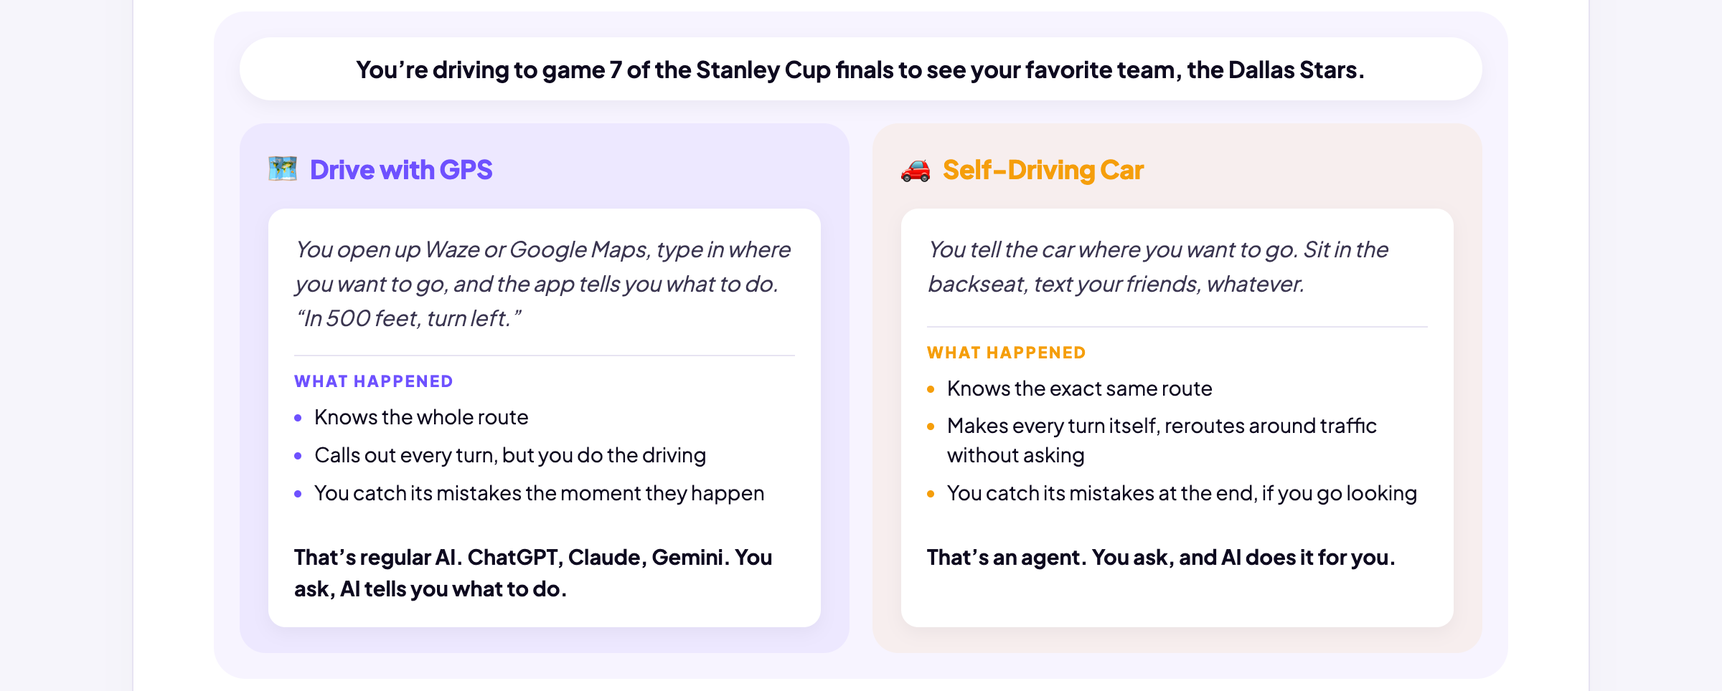
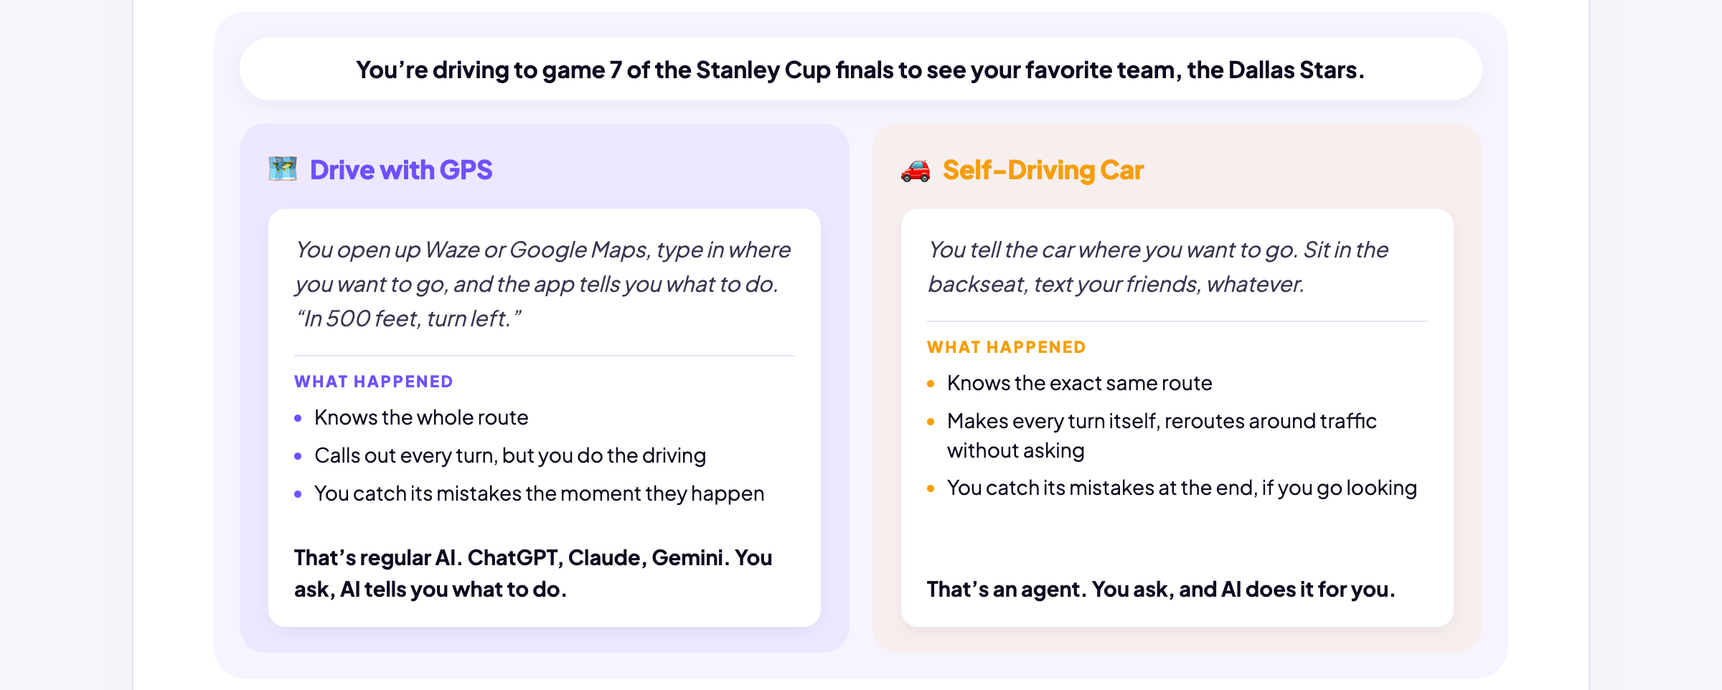
Iterate Work Changes into a tighter, past-tense assignment story
- Opening trimmed: AI-companies aside and sit-inside line removed
- Assignment box: sentence-per-line manager quote, past-tense retelling
  (WHAT YOU DID / WHAT AI DID / WHAT YOU DID), identical mirrored grind
  bullets on both sides, THE RESULT verdicts with aligned hairlines
- ExperienceCompare grows grouped bullet lists, verdictLabel with its
  own rule and level bottom zone; RoA keeps the legacy look untouched
- Automate/Augment recast in the Big Downside term-card format
  (LabeledCardStack flat+dense, "How it impacted your assignment")
- WHAT CHANGES FOR YOU: more kinds of work / more productive (Harvard
  BCG consultants stat) / more meaningful work
- Entry-level section rewritten: THE PART THAT MATTERS, learn-learn-
  learn closer; close board recopy "AI is changing the work you'll do."
- Briefing + component gallery synced (ExperienceCompare, stale
  LabeledCardStack citation fixed, flat/dense documented)

diff --git a/index.html b/index.html
@@ -452,7 +452,7 @@ const CLOSE_BOARDS = {
   bigdownside: { pill: "AI does exactly what it’s told.", sticky: "The black box moves faster than the rules." },
   bigupside: { pill: "The big upside is happening today.", sticky: "AI is saving lives." },
   agents: { pill: "Agents do the work. The name on it is yours.", sticky: "You ask, it acts. You make it better." },
-  workchanges: { pill: "The first pass becomes the starting line.", sticky: "Your job is what happens next." },
+  workchanges: { pill: "AI is changing the work you’ll do.", sticky: "Now it’s on you to LEARN." },
   computecost: { pill: "Every answer costs something real.", sticky: "Cheap to type isn’t free to run." },
   unexpected: { pill: "The biggest results are the ones nobody predicted.", sticky: "That’s the best reason to stay curious." },
   // Build Your Skills
@@ -1327,17 +1327,23 @@ function ExperienceCompare(box) {
             E("span", { style: { fontSize: 20, flexShrink: 0 } }, side.icon),
             E("span", { style: { fontFamily: "var(--sans)", fontSize: 18, fontWeight: 800, color: side.color, letterSpacing: "-0.01em" } }, side.tagline)),
           E("div", { style: { background: "#fff", borderRadius: 12, padding: "16px 18px", boxShadow: "var(--shadowSoft)", flex: 1, display: "flex", flexDirection: "column" } },
-            E("div", { style: { fontSize: BOX_TEXT, color: "var(--inkSoft)", lineHeight: 1.6, fontStyle: "italic", flex: "1 1 auto" } }, side.body),
-            E("div", null,
+            E("div", { style: { fontSize: BOX_TEXT, color: "var(--inkSoft)", lineHeight: 1.6, fontStyle: "italic" } }, side.body),
+            E("div", { style: { flex: 1, display: "flex", flexDirection: "column" } },
               E("div", { style: { borderTop: "1px solid var(--rule)", margin: "14px 0 10px" } }),
-              E("div", { style: { fontSize: 11, fontWeight: 800, letterSpacing: "0.12em", textTransform: "uppercase", color: side.color, marginBottom: 8 } }, "What happened"),
-              E("div", { style: { display: "flex", flexDirection: "column", gap: 6 } },
-                side.happened.map(function(h, hi) {
-                  return E("div", { key: hi, style: { display: "flex", gap: 9, alignItems: "baseline", fontSize: 14, lineHeight: 1.45, color: "var(--ink)" } },
-                    E("span", { style: { width: 5, height: 5, borderRadius: "50%", background: side.color, flexShrink: 0, transform: "translateY(-2px)" } }),
-                    E("span", null, h));
-                })),
-              E("div", { style: { fontSize: 14.5, fontWeight: 700, color: "var(--ink)", lineHeight: 1.5, marginTop: 24, minHeight: 44 } }, side.verdict))));
+              (side.groups || [{ label: "What happened", items: side.happened }]).map(function(group, gi) {
+                return E("div", { key: gi, style: { marginTop: gi === 0 ? 0 : 14 } },
+                  E("div", { style: { fontSize: 11, fontWeight: 800, letterSpacing: "0.12em", textTransform: "uppercase", color: side.color, marginBottom: 8 } }, group.label),
+                  E("div", { style: { display: "flex", flexDirection: "column", gap: 6 } },
+                    group.items.map(function(h, hi) {
+                      return E("div", { key: hi, style: { display: "flex", gap: 9, alignItems: "baseline", fontSize: 14, lineHeight: 1.45, color: "var(--ink)" } },
+                        E("span", { style: { width: 5, height: 5, borderRadius: "50%", background: side.color, flexShrink: 0, transform: "translateY(-2px)" } }),
+                        E("span", null, h));
+                    })));
+              }),
+              E("div", { style: { marginTop: "auto", paddingTop: side.verdictLabel ? 0 : 24 } },
+                side.verdictLabel ? E("div", { style: { borderTop: "1px solid var(--rule)", margin: "14px 0 10px" } }) : null,
+                side.verdictLabel ? E("div", { style: { fontSize: 11, fontWeight: 800, letterSpacing: "0.12em", textTransform: "uppercase", color: side.color, marginBottom: 8 } }, side.verdictLabel) : null,
+                E("div", { style: { fontSize: 14.5, fontWeight: 700, color: "var(--ink)", lineHeight: 1.5, minHeight: side.verdictLabel ? 66 : undefined } }, side.verdict)))));
       })));
 }
 
@@ -12423,9 +12429,7 @@ function WorkChangesSection(props) {
     E(BodyP, null,
       "Before you know it, you’ll be finished with school and starting your career. How is AI changing work? Glad you asked."),
     E(BodyP, null,
-      "Most of you won’t have jobs at the AI companies. But if you do, congratulations! Put in a good word for this course."),
-    E(BodyP, null,
-      "The superficial things won’t change, like job titles. You’ll have thousands of choices like entrepreneur, teacher, lawyer, or designer. What will change, and is already changing today, is what your day will look like. AI will sit inside almost any profession you choose."),
+      "The superficial things won’t change, like job titles. You have thousands of choices like entrepreneur, teacher, lawyer, or designer. What will change, and is already changing today, is what your day will look like."),
 
     E(SectionKicker, null, "YOU ALREADY KNOW THE PIECES"),
     E(BodyP, null,
@@ -12462,90 +12466,70 @@ function WorkChangesSection(props) {
     ),
     E(BodyP, null,
       "Second: the importance of learning. If everyone gets similar answers from AI, what sets you apart? ", E("strong", null, "It’s what you already know"), "."),
-    E(BodyP, null, "Now put those two lessons inside a workplace."),
 
     E(SectionKicker, null, "YOUR FIRST ASSIGNMENT"),
     E(BodyP, null,
-      "You could receive the same assignment before AI and with AI. What changes is where the real work begins."),
+      "Here’s the same job before AI and with AI. Spoiler alert: you’ll have more time for the interesting stuff."),
     ExperienceCompare({
-      headline: "“We’re getting bad customer feedback on our new product. Read the last 500 reviews and tell us what’s happening and how we should fix it.”",
+      headline: E("span", null, "“We’re getting bad customer feedback on our new product.", E("br"), "Read the last 500 reviews and tell us what’s happening and how we should fix it.”"),
       sides: [{
         icon: "🗂",
         tagline: "Before AI",
         color: "#6e51ff",
-        body: "The grind is all on you. The week disappears into what feels like busy work, and it’s Friday before you finally start analyzing what you found.",
-        happened: ["You read and organize every review", "You find the recurring themes", "You build the spreadsheet", "You draft and present the findings", "The presentation is the finish line"],
-        verdict: "Most of the time goes into making the first pass."
+        body: "The grind was all on you. The week disappeared into what felt like busy work, and it was Friday before you finally started analyzing the data.",
+        groups: [
+          { label: "What you did", items: ["Read and organized 500 reviews", "Found the recurring themes", "Built the spreadsheet", "Analyzed the data", "Prepared the Google Slides deck", "Presented the findings to the boss"] }
+        ],
+        verdictLabel: "The result",
+        verdict: "The boss said you did good work, added a page of comments, and you spent next week re-analyzing."
       }, {
         icon: "⚡",
         tagline: "With AI",
         color: "#f59e0b",
-        body: "AI sits beside you and does the busy work in minutes. Your week goes to what the boss actually asked: what’s happening, and how do we fix it?",
-        happened: ["AI reads all 500 reviews and proposes the themes", "You check the source reviews and catch what AI missed", "You investigate why and recommend the fix", "The summary is the starting line"],
-        verdict: "AI makes the first pass. The employee takes it further."
+        body: "AI sat beside you and did the busy work in minutes. Your week went to what the boss asked: what’s happening, and how do we fix it?",
+        groups: [
+          { label: "What AI did", items: ["Read and organized 500 reviews", "Found the recurring themes", "Built the spreadsheet", "Analyzed the data", "Prepared the Google Slides deck"] },
+          { label: "What you did", items: ["Worked with AI throughout to improve its work", "Investigated why and recommended the fix", "Presented the findings to the boss"] }
+        ],
+        verdictLabel: "The result",
+        verdict: "The boss loved it. The week you spent on the real questions paid off."
       }]
     }),
     E(BodyP, null,
-      "The employee did not simply finish the old assignment faster. The assignment became bigger. Making the summary used to be most of the job. Now it is where the job begins."),
+      "Do you see the point? AI doesn’t just let you do things faster. ", E("strong", null, "It lets you focus on what’s really important"), "."),
 
-    E(SectionKicker, null, "WHY THE ASSIGNMENT CHANGED"),
+    E(SectionKicker, null, "THE CONCEPTS"),
     E(BodyP, null,
-      "Look closer at that assignment. Two different things happened to it."),
-    E(ComparisonCards, {
-      items: [
-        {
-          label: "Automate",
-          title: "AI takes over a step",
-          color: "#d97706",
-          sections: [{
-            label: "In this assignment",
-            body: "AI sorts the reviews, groups similar ideas, and creates the first summary with little human attention."
-          }]
-        },
-        {
-          label: "Augment",
-          title: "AI helps a person do more",
-          color: "#7c3aed",
-          sections: [{
-            label: "In this assignment",
-            body: "The employee explores more explanations, compares more options, and improves the recommendation faster."
-          }]
-        }
-      ]
-    }),
+      "There are two terms you’ll hear that describe how AI is changing the nature of work."),
+    E(ShowcaseBox, { marginBottom: 24 },
+      E(LabeledCardStack, { grid: true, columns: 2, flat: true, dense: true, meansLabel: "How it impacted your assignment", items: [
+        { headline: "Automate", body: "AI takes over a step.", means: "AI sorts the reviews, groups similar ideas, and creates the first summary with little human attention." },
+        { headline: "Augment", body: "AI helps a person do more.", means: "You explore more explanations, compare more options, and improve the recommendation faster." }
+      ] })),
     E(BodyP, null,
-      "Most jobs will contain both. Some steps disappear into the tool. Other steps become faster, broader, or more ambitious. Either way, the outcome still needs an owner."),
+      "Whatever career you choose, AI will do some tasks for you and help you do others. But here’s the important point: the work still has your name on it. You own the outcome."),
 
     E(ShowcaseBox, {
       kicker: "WHAT CHANGES FOR YOU",
-      intro: "Put automation and augmentation together, and three changes show up across many careers.",
+      intro: "Put automation and augmentation together, and three changes show up across almost every career.",
       marginBottom: 28
     },
       E(NumberedColumns, {
         items: [
-          { label: "The first pass gets compressed", body: "Drafting, organizing, summarizing, and generating options take less time." },
-          { label: "The job gets wider", body: "One person can cover more of the workflow, with fewer handoffs to other people." },
-          { label: "The pace gets faster", body: "When another version is cheap, employers can ask for more versions, more testing, and faster improvement." }
+          { label: "You can do more kinds of work", body: "You cover more of the workflow, with fewer handoffs to other people. A marketer who has never coded can now build the campaign’s landing page." },
+          { label: "You can be more productive", body: "In a Harvard study, consultants using AI finished tasks 25% faster with 40% better quality. The least experienced gained the most." },
+          { label: "You can do more meaningful work", body: "AI absorbs the busy work, so more of your week goes to the real questions: investigating, deciding, and recommending." }
         ]
       })
     ),
+    E(SectionKicker, null, "THE PART THAT MATTERS"),
     E(BodyP, null,
-      "If research and a first draft once took two days, an employer probably will not turn the saved time into two days off. The worker may be asked to investigate more possibilities, handle an adjacent part of the project, or finish the whole assignment sooner."),
-
-    E(SectionKicker, null, "THE FIRST RUNG GETS SHORTER"),
+      "This is changing entry-level jobs. Much of the work that AI does was formerly reserved for the new college graduates just starting out. It was the way they learned the profession: basic research, starter code, and simple analysis."),
     E(BodyP, null,
-      "Here is the part that matters especially for you. The work AI handles first is often the work beginners used to do to learn a profession: basic research, first drafts, starter code, simple analysis, and routine documentation."),
-    E(ShowcaseBox, {
-      headline: "AI can make you productive before it makes you knowledgeable.",
-      marginBottom: 28
-    },
-      E(BodyP, { marginBottom: 14 },
-        "That creates a strange problem. A new employee may be expected to check sophisticated work after getting fewer chances to practice producing it from scratch."),
-      E(BodyP, { marginBottom: 0 },
-        "This is why Does School Matter? mattered. You still need the knowledge and the reps. The difference is that you may have to build them more deliberately.")
-    ),
+      E("strong", null, "AI can make you productive before it makes you knowledgeable."),
+      " That creates a strange problem. You might be asked to check sophisticated work before you’ve had the chance to learn it."),
     E(BodyP, null,
-      "Your first job will not just ask whether you can use AI. It will ask whether you can take everything AI produces and turn it into a result."),
+      "You already know what you must do. Learn. Learn. And learn more. And you’re in the best place in the world to do it: school."),
     closeBoard("workchanges"),
 
     E(InteractiveBox, {

diff --git a/briefing.md b/briefing.md
@@ -73,11 +73,11 @@ Keep the **Design system**, **Lesson structure**, and **Working agreements** sec
 - **CoreLoopBox**: the shared "four ideas" anchor (Learn once: 📚 Training → 🧩 Patterns | Answer · every word: 🎲 Probability → ✍ Prediction), purple/amber two-panel layout. It is rendered in How an LLM Works (`aihistory`), AI Is Different (`aivscode`), and How We Got Here (`howwegothere`). How We Got Here also tags each milestone with the matching idea-chip.
 - **TrainingLoopBox**: the shared "reads → guesses → corrects" training-loop box (1·READS books/web/chats/code/images/audio/video, 2·GUESSES "peanut butter and __" → cloud ✗, 3·CORRECTS → jelly ✓). Props: `bare` skips the lavender panel wrap. It is rendered in How an LLM Works (`aihistory`) and Training (`training`). The host lessons carry the "billions of times" takeaway in their own copy.
 - **CompareRows**: the aligned point-for-point member of the comparison family, for "X vs Y" content where row N on the left is answered by row N on the right. Same var(--primaryFaint) band geometry as CompareBox (22px radius, 32px 40px padding, optional 20px/800 `headline`), holding a split-tint inner panel (24px radius, hard 50/50 linear-gradient between the two column bgs) with two column headers (CompareHead-style type; left column left-aligned, right column right-aligned) above one white rows card (16px radius, var(--shadowElevated)). Each row: left item right-aligned in the left column color, a 40×12 double-headed arrow SVG (#8b7fc0), right item left-aligned in the right column color; rows split by var(--rule) hairlines. Pairing is structural: row j renders columns[0].items[j] against columns[1].items[j]. Props: headline (optional), columns (array of exactly two: { label, sub, emoji, color, bg, items }), marginBottom (default 32). Reference implementation: "When you think vs. what AI does" in DoesAIThinkSection. Use CompareBox/ComparePanel when the two sides are free-form bodies; use CompareRows when the comparison is a list of aligned one-line contrasts.
-- **ExperienceCompare**: the scenario-story member of the comparison family: one setup, two experiences of living it, each argued to a verdict. A var(--primaryFaint) band (22px radius, 18px padding, marginBottom 24) led by a white pill headline (999 radius, var(--shadowSoft), 12px 22px padding, 16px/700 ink, centered) stating the scenario, above an auto-fit grid (`minmax(min(100%, 340px), 1fr)`, 16px gap) of two tinted side panels (side.color + "12" fill, 18px radius, 18px 20px padding, column flex). Each side: an emoji icon plus an 18px/800 tagline in the side color, then a white card (12px radius, var(--shadowSoft), flex 1) holding an italic BOX_TEXT/1.6 inkSoft narrative, a var(--rule) hairline, an uppercase 11px/800 "What happened" label in the side color, dot-bulleted 14px one-liners (5px dots in the side color), and a 14.5px/700 ink verdict line (minHeight 44 keeps the two verdicts level). Called as a plain function with a config object (`ExperienceCompare({...})`), not through createElement. Props: headline (string or element), sides (array of exactly two: { icon, tagline, color, body, happened, verdict }). Promoted 2026-08-14 from a WhenAIActsSection-local helper (formerly shadowing the CompareBox name). Reference implementations: the GPS vs. Self-Driving Car and ChatGPT vs. agent boxes in WhenAIActsSection; the Before AI vs. With AI assignment box in WorkChangesSection. Use CompareBox/ComparePanel when the two sides are free-form bodies; use ExperienceCompare when both sides narrate the same scenario as a story with events and a verdict.
+- **ExperienceCompare**: the scenario-story member of the comparison family: one setup, two experiences of living it, each argued to a verdict. A var(--primaryFaint) band (22px radius, 18px padding, marginBottom 24) led by a white pill headline (999 radius, var(--shadowSoft), 12px 22px padding, 16px/700 ink, centered) stating the scenario, above an auto-fit grid (`minmax(min(100%, 340px), 1fr)`, 16px gap) of two tinted side panels (side.color + "12" fill, 18px radius, 18px 20px padding, column flex). Each side: an emoji icon plus an 18px/800 tagline in the side color, then a white card (12px radius, var(--shadowSoft), flex 1) holding an italic BOX_TEXT/1.6 inkSoft narrative, a var(--rule) hairline, then one or more labeled bullet groups — each an uppercase 11px/800 label in the side color over dot-bulleted 14px one-liners (5px dots in the side color), with 14px between groups — and a 14.5px/700 ink verdict pinned to the card bottom so the two verdicts stay level. An unlabeled verdict keeps a 24px minimum gap above it (the Rise of Agents boxes); a verdictLabel (e.g. "The result" in Work Changes) instead brings its own hairline (same 14px/10px margins as the narrative rule) and uppercase label above a 66px min-height text zone, so the result rules and labels align across sides regardless of how the two verdicts wrap. The hairline sits a fixed 14px below the narrative (the narrative does not flex-grow), so the rules align whenever the two narratives run the same line count (refined 2026-08-14). Called as a plain function with a config object (`ExperienceCompare({...})`), not through createElement. Props: headline (string or element), sides (array of exactly two: { icon, tagline, color, body, groups (array of { label, items }), verdictLabel (optional), verdict }); a side may pass the legacy `happened` list instead of groups, which renders as one group labeled "What happened" (the Rise of Agents boxes). Promoted 2026-08-14 from a WhenAIActsSection-local helper (formerly shadowing the CompareBox name). Reference implementations: the GPS vs. Self-Driving Car and ChatGPT vs. agent boxes in WhenAIActsSection; the Before AI vs. With AI assignment box in WorkChangesSection. Use CompareBox/ComparePanel when the two sides are free-form bodies; use ExperienceCompare when both sides narrate the same scenario as a story with events and a verdict.
 - **PullQuote**: the sourced-quotation card, for verbatim quotes from real documents or people. A var(--primaryFaint) band at 20px radius (no border or shadow), led by a 60px var(--primary) left curly quote mark; the quote sets in var(--serif) at 30px/1.4 var(--ink) (a sanctioned editorial display moment, no surrounding quote marks). Below it an attribution row: a short 26x2px var(--primary) rule plus an uppercase, 0.12em-tracked 13px/800 var(--primary) `cite` label, then a "· "-prefixed 14px/600 var(--inkMuted) `source`. Props: quote, cite (optional, the uppercase short label), source (optional, the muted publisher/date); legacy `attribution` still renders in the source slot if passed; marginBottom (default var(--blockGap)). Verbatim quotes keep their source punctuation, including em-dashes (write them as the backslash-u2014 escape so design-check's raw-byte count is unaffected); our own copy still avoids em-dashes. Reference implementation: the White House AI Action Plan quote in WhyDeeperSection.
 - **NumberedRows**: the numbered-list display box, for showing an ordered list of practices, steps, or tips. A var(--primaryFaint) band (20px radius, 24px padding, optional 20px/800 `headline`) holding one white card (16px radius, var(--shadowElevated), 8px 28px padding) of rows split by var(--rule) hairlines. Each row: a 26px filled circle number (var(--primary) fill, white 13px/800 numeral), then a title line (optional emoji `icon` + BOX_CARD_TITLE/800 ink title), a body (BOX_TEXT + 1, inkSoft, 1.6), an optional `prompt` rendered as a quoted var(--mono) callout on a var(--primaryFaint) tile, and an optional `after` (body-styled line below the prompt tile; accepts a React node, e.g. a bold "What you'll get:" lead — used by the Flattery Trap strategies). Props: items (array of { icon?, title, body?, prompt?, after? }), headline (optional), intro (optional ShowcaseBox-style inkSoft 15px/1.6 subtitle below the headline, inside the band), marginBottom (default var(--blockGap)). body is optional: title-only rows render as a numbered checklist of bold one-liners (the "before you share" questions in PrivacySection). Reference implementations: "Best practices" in StudyingSection; "How to Fight It" in FlatteryTrapSection; "The five moves" in DocumentChatSection; "Five moves you can practice" in CreativeThinkingSection; the three "And it's early" advantages (headline + intro) in WhyDeeperSection. Use it whenever a lesson needs a list of named things with explanations; numbering is automatic.
 - **NumberedColumns**: the numbered-card grid, for an ordered sequence shown side by side. An auto-fit grid (`repeat(auto-fit, minmax(125px, 1fr))`, 12px gap) of white cards (var(--card), 14px radius, 16px padding, var(--shadowElevated), column flex with 10px gap), each carrying a filled number chip (var(--primary) bg, white 13px/800 numeral, 8px radius, 28px min-width × 24px tall, self-start), a label (BOX_CARD_TITLE, 800, var(--ink), 1.25), and a body (BOX_TEXT, inkSoft, 1.55). `cap3` switches to the responsive flex layout used for five-item 3+2 boards. No band of its own. Current references: "Here’s your path." in WelcomeSection, "Two skills. Both grow with what you know." in WhyBotherSection, and the three "What changes for you" cards in WorkChangesSection. Use NumberedRows when items need full-width explanations or prompt callouts; use NumberedColumns when the point is the sequence itself and each item is a few words.
-- **LabeledCardStack**: the accent-striped card stack, for a vertical run of labeled terms or modes. A column flex (12px gap) of white cards (var(--card), 1px var(--rule) border plus a 4px accent borderLeft, 10px radius, 14px 18px padding), each carrying an accent-colored 11px/700 uppercase eyebrow, an optional 16px/700 ink headline, and a BOX_TEXT inkSoft body. An optional `means` field appends a var(--rule) top rule, a "WHAT IT MEANS" label (same eyebrow type), and a second body line, for the real-world implication of the card above it (mirrors Where AI Works Best's divider + Examples treatment; added 2026-08-11). A `grid: true` prop swaps the stack for a 2-col auto-fit grid (minmax 300px, 14px column gap, cards carry marginBottom 14) with roomier chrome (16px radius, 20px 22px padding, --shadowSoft, 19px headline); grid cards are subgrids spanning 7 shared row tracks (pill, headline, eyebrow, body, rule, means label, means text) so the rule and "What it means" rows align across each row of cards regardless of body length (graceful fallback to per-card flow where subgrid is unsupported); in grid mode the eyebrow renders BELOW the headline as an accent-colored BOX_TEXT-size uppercase subtitle (the term's plain-language idea), and the headline runs 19px; a per-item `pill` renders an outlined status chip above the eyebrow (accent text/border on var(--primaryFaint), 999 radius) and mutes the eyebrow + means labels to var(--inkMuted) so the pill and stripe carry the accent. A `columns: N` prop forces exactly N equal columns (`repeat(N, minmax(0,1fr))`) instead of the default auto-fit; cards with no `means` skip the subgrid and equalize height via grid stretch, so plain headline+body cards work (Big Downside's RSI/AGI/ASI stress-test box uses `grid, columns: 3` with headline+body only, no pill/eyebrow/means). Props: items (array of { pill?, eyebrow?, headline?, body?, means?, accent?, stripe? }; eyebrow optional in grid mode), grid (optional), columns (optional, grid only), accent (per-item fallback, default var(--primary)). stripe (optional per item) overrides the borderLeft color only, leaving pill/eyebrow on accent — the 4 Terms grid fades its stripes #6e51ff → #8a70ff → #a690ff → #c2b0ff so the color lightens as the terms get more hypothetical. Reference implementations: the 4 Terms grid in PaceOfChangeSection (grid + pills + means, uniform primary accent); the "Three modes to recognize" and "Four roles in every deployment" stacks in WhenAIJudgesSection (stack form, per-card accents).
+- **LabeledCardStack**: the accent-striped card stack, for a vertical run of labeled terms or modes. A column flex (12px gap) of white cards (var(--card), 1px var(--rule) border plus a 4px accent borderLeft, 10px radius, 14px 18px padding), each carrying an accent-colored 11px/700 uppercase eyebrow, an optional 16px/700 ink headline, and a BOX_TEXT inkSoft body. An optional `means` field appends a var(--rule) top rule, a "WHAT IT MEANS" label (same eyebrow type), and a second body line, for the real-world implication of the card above it (mirrors Where AI Works Best's divider + Examples treatment; added 2026-08-11). A `grid: true` prop swaps the stack for a 2-col auto-fit grid (minmax 300px, 14px column gap, cards carry marginBottom 14) with roomier chrome (16px radius, 20px 22px padding, --shadowSoft, 19px headline); grid cards are subgrids spanning 7 shared row tracks (pill, headline, eyebrow, body, rule, means label, means text) so the rule and "What it means" rows align across each row of cards regardless of body length (graceful fallback to per-card flow where subgrid is unsupported); in grid mode the eyebrow renders BELOW the headline as an accent-colored BOX_TEXT-size uppercase subtitle (the term's plain-language idea), and the headline runs 19px; a per-item `pill` renders an outlined status chip above the eyebrow (accent text/border on var(--primaryFaint), 999 radius) and mutes the eyebrow + means labels to var(--inkMuted) so the pill and stripe carry the accent. A `columns: N` prop forces exactly N equal columns (`repeat(N, minmax(0,1fr))`) instead of the default auto-fit; cards with no `means` skip the subgrid and equalize height via grid stretch, so plain headline+body cards work. `flat: true` drops the accent left stripe (uniform 1px var(--rule) border) and `dense: true` tightens grid type (18px headline, BOX_TEXT−1 body/means); `meansLabel`/`meansLabelColor` override the means-section label text and color. Term-definition references, both flat+dense grids inside a ShowcaseBox: Big Downside's RSI/AGI/ASI stress-test box (`columns: 3`, meansLabel "The worry" in var(--red)) and Work Changes' Automate/Augment concepts box (`columns: 2`, meansLabel "In this assignment", added 2026-08-14). Props: items (array of { pill?, eyebrow?, headline?, body?, means?, accent?, stripe? }; eyebrow optional in grid mode), grid (optional), columns (optional, grid only), flat (optional), dense (optional, grid mode), meansLabel/meansLabelColor (optional), accent (per-item fallback, default var(--primary)). stripe (optional per item) overrides the borderLeft color only, leaving pill/eyebrow on accent — the 4 Terms grid fades its stripes #6e51ff → #8a70ff → #a690ff → #c2b0ff so the color lightens as the terms get more hypothetical. Reference implementations: the 4 Terms grid in PaceOfChangeSection (grid + pills + means, uniform primary accent); the "Three modes to recognize" and "Four roles in every deployment" stacks in WhenAIJudgesSection (stack form, per-card accents).
 - **ComparePanel**: one tinted column inside a CompareBox. Wraps CompareCard (panel tint, overridden to 18px radius and 22px padding) around a CompareHead plus a white InnerCard (12px radius, 18px 22px 20px padding, flex 1, keeps var(--shadowSoft)) that holds the body. The white body card is constant across every comparison box; the body inside it is a free slot formatted per content: bullets, code, a demo, an accent-colored monospace highlight line above dotted rows (the embeddings boxes), two labeled rows split by a hairline var(--rule) divider inside the one white card (Luke/Nate), or a centered hero such as a large emoji or number with the head left-aligned (the drink and cat boxes). Props: bg (panel tint), accent (head color), emoji (optional; omit to suppress on bodies that already carry an emoji, like the cat or drink boxes), eyebrow (optional; omit for an emoji-plus-title head like Luke/Nate), title, style (optional CompareCard override), children. For a body that genuinely should not sit on a white card, compose CompareCard plus CompareHead directly instead.
 - **CompareHead**: the standardized panel header used by ComparePanel: optional emoji (15px, rides the eyebrow line) plus eyebrow (11px, 700, uppercase, 0.18em, accent color) plus title (24px, 700, -0.018em, line-height 1.15, accent color). Props: emoji, eyebrow, title, accent.
 - Comparison family palette: blue panel #d6e2f4 with #2f4cb8 head, purple panel #ddd0ef with #5a3aa6 head. Comparison body text is 15px / 1.45 / var(--ink) with a 6px round var(--ink) dot at 0.45 opacity. ComparePanel keeps the 18/22 panel geometry as a convention, leaving CompareCard's 16/20 default untouched for its other uses. One sanctioned palette exception: Attention (attention) in HowReads keeps its own coding (var(--primary) head on a #6e51ff22 panel, #f59e0b head on a #f59e0b22 panel), because the three-solutions explorer just below color-codes the same two concepts in those colors. It uses STEP 1 / STEP 2 eyebrows since it is a sequence, not an opposition.

diff --git a/docs/components/README.md b/docs/components/README.md
@@ -36,7 +36,7 @@ The aligned point-for-point variant: split-tint header band, one white card of r
 ![CompareRows](compare-rows.png)
 
 ### ExperienceCompare
-The scenario-story variant: a white pill headline states one setup, then two tinted side panels each tell the experience of living it — emoji + colored tagline, a white card with an italic narrative, a "WHAT HAPPENED" bullet list, and a bold verdict line. Use when both sides narrate the same scenario to a verdict; use CompareBox/ComparePanel for free-form X-vs-Y bodies. Examples: Drive with GPS vs. Self-Driving Car in Rise of Agents (`agents`) and Before AI vs. With AI in Work Changes (`workchanges`). Captured 2026-08-14.
+The scenario-story variant: a white pill headline states one setup, then two tinted side panels each tell the experience of living it — emoji + colored tagline, a white card with an italic narrative, one or more labeled bullet groups (default label "WHAT HAPPENED"; Work Changes splits its With AI side into "WHAT AI DOES" / "WHAT YOU DO"), and a bottom-pinned bold verdict that can carry its own label ("THE RESULT"). Use when both sides narrate the same scenario to a verdict; use CompareBox/ComparePanel for free-form X-vs-Y bodies. Examples: Drive with GPS vs. Self-Driving Car in Rise of Agents (`agents`) and Before AI vs. With AI in Work Changes (`workchanges`). Captured 2026-08-14.
 
 ![ExperienceCompare](experience-compare.png)
 
